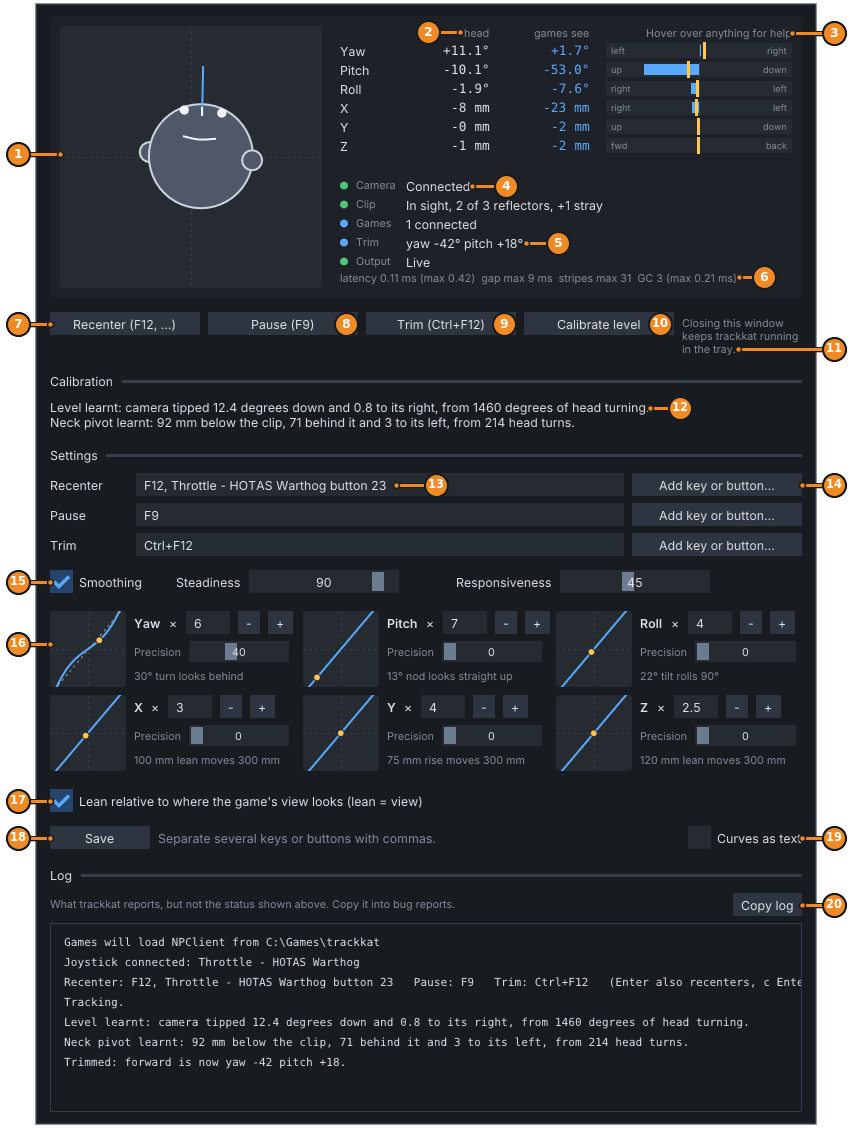
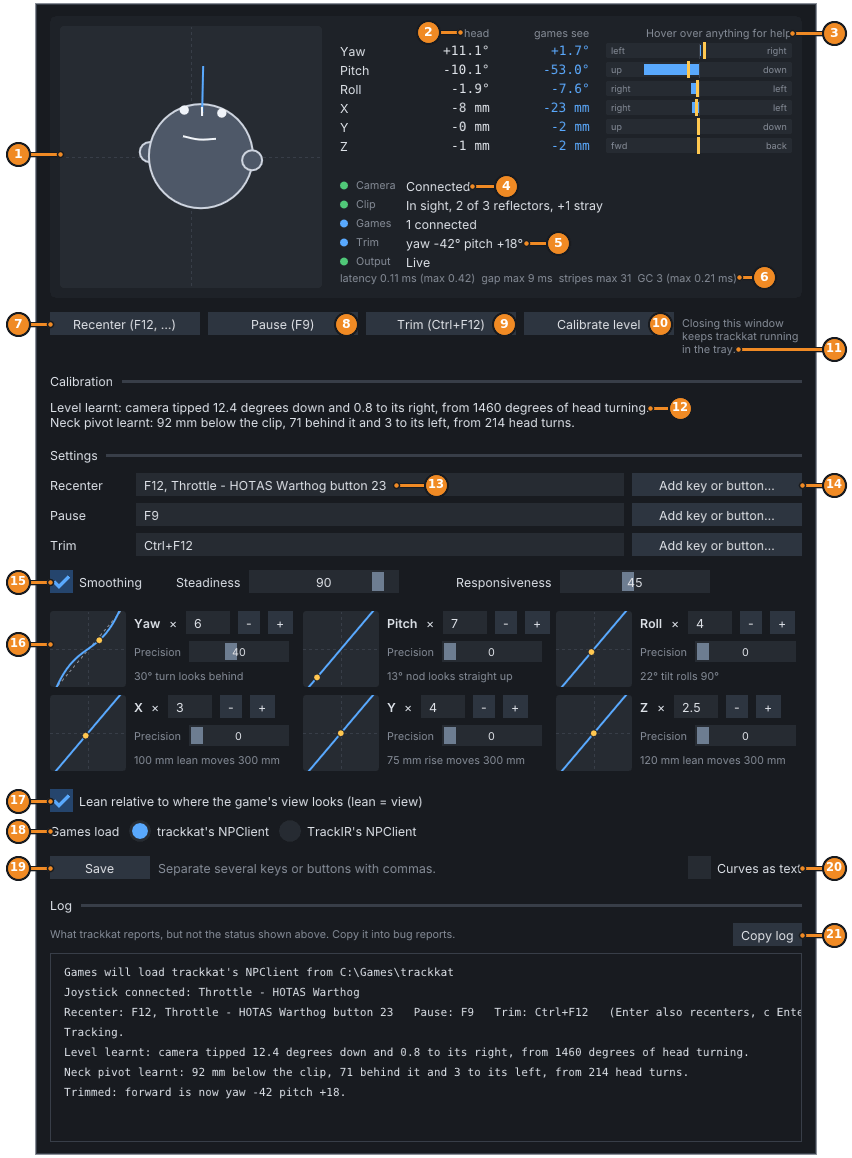
Show the NPClient choice in the README's window

diff --git a/README.md b/README.md
@@ -62,9 +62,10 @@ tooltip saying what it does.
 15. Smoothing: steadiness against jitter, responsiveness against lag.
 16. Response curves: a multiplier (- and + step it by halves), a centre precision, and a plot with your head as a dot.
 17. Lean relative to where the game's view looks, or to the screen.
-18. **Save** writes the settings to `trackkat.conf`; they apply at once.
-19. **Curves as text**, for curves of any shape.
-20. The log; **Copy log** for bug reports.
+18. Whose NPClient games load: trackkat's, or TrackIR's for games whose anti-cheat refuses trackkat's.
+19. **Save** writes the settings to `trackkat.conf`; they apply at once.
+20. **Curves as text**, for curves of any shape.
+21. The log; **Copy log** for bug reports.
 
 ## Keys
 
